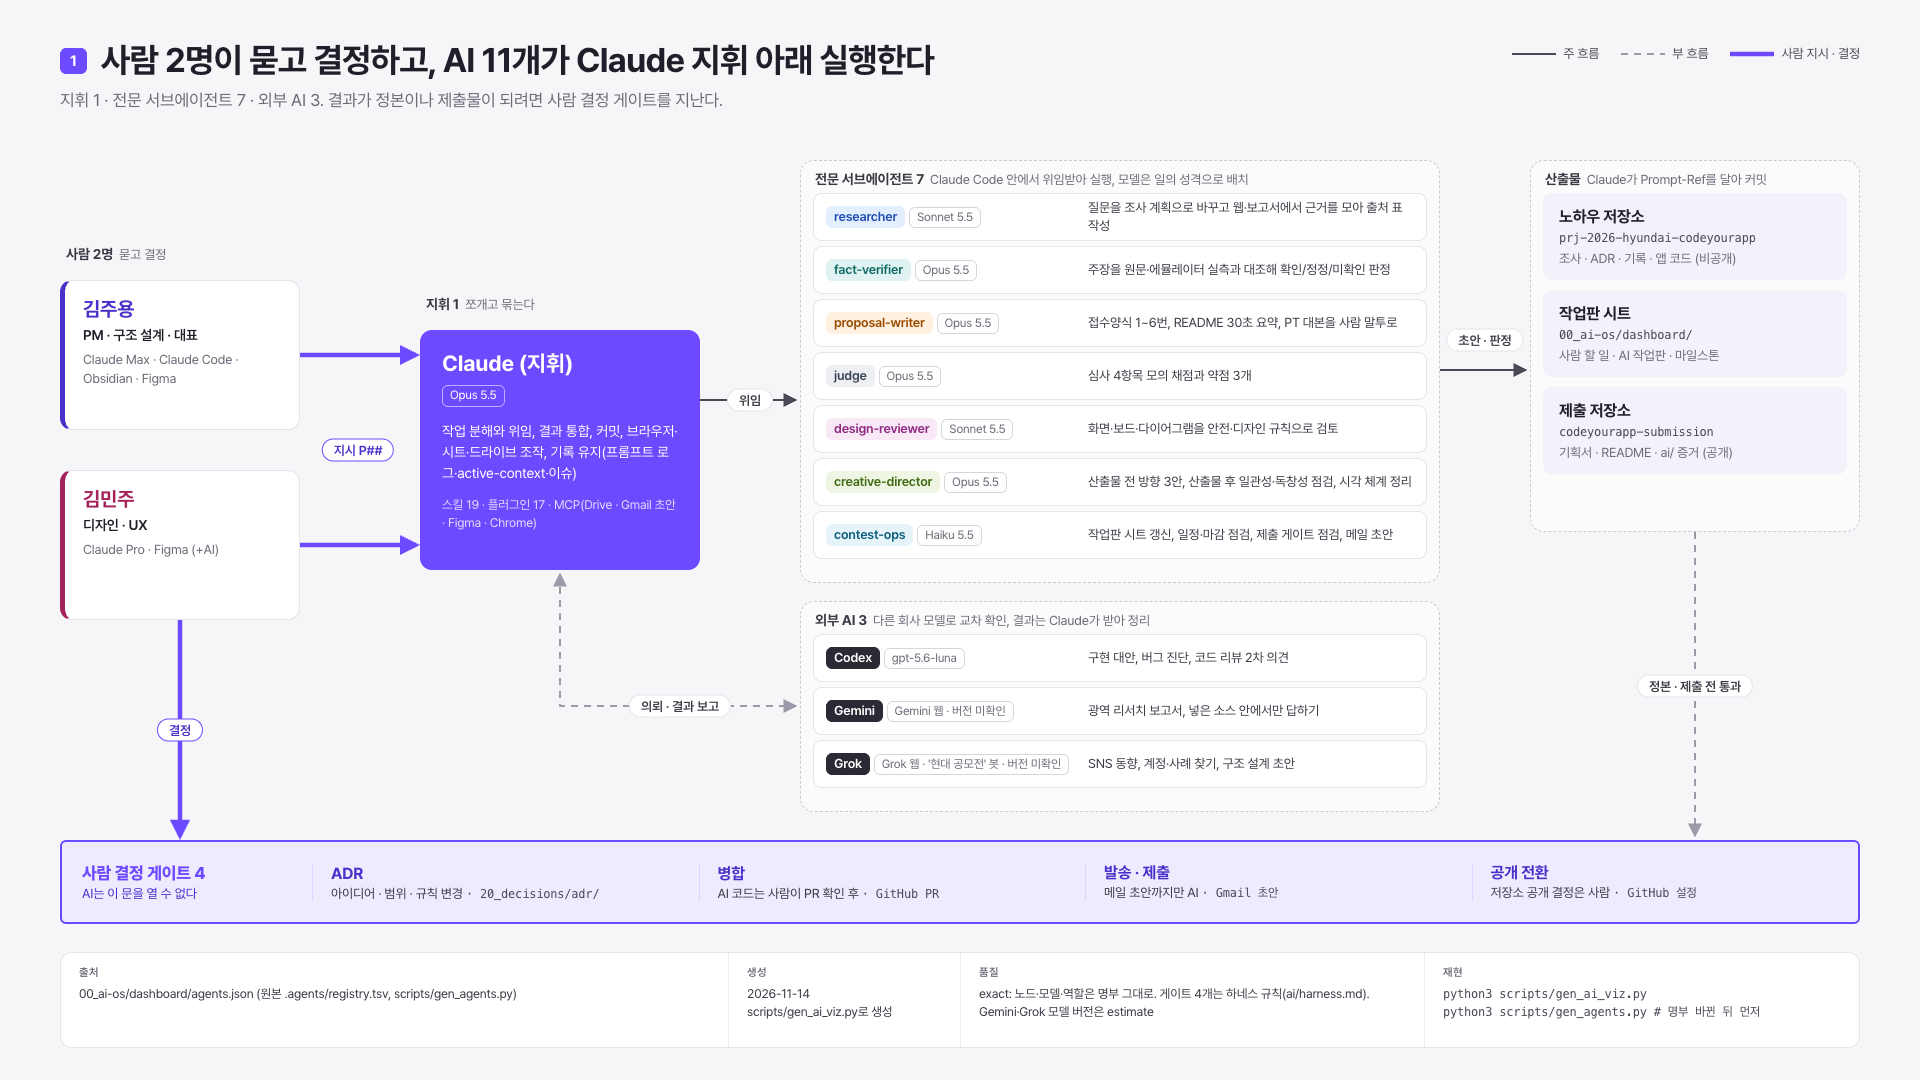
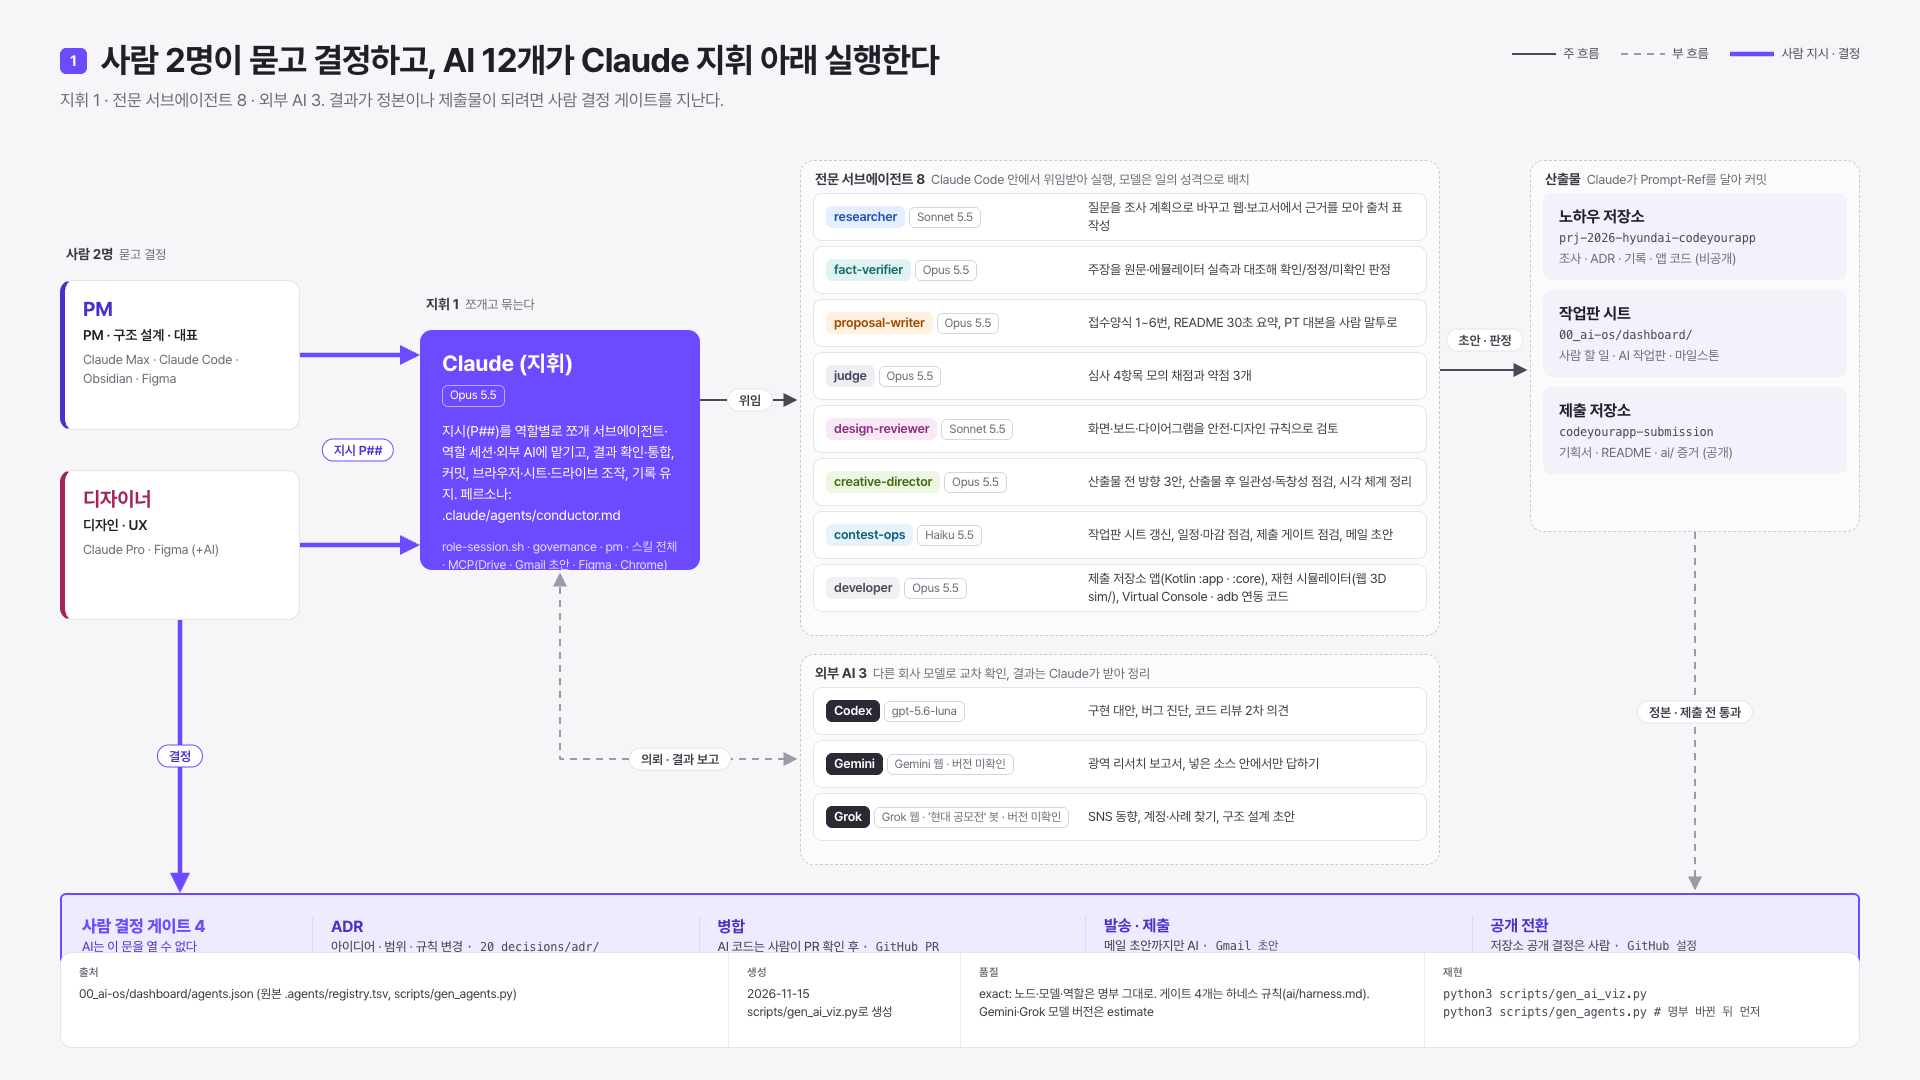
fix: 제출 저장소 실명 제거 (역할명으로)
Prompt-Ref: P105

diff --git a/ai/agents.md b/ai/agents.md
@@ -7,8 +7,8 @@
 ```mermaid
 flowchart TB
     subgraph H["사람 · 결정"]
-        kim_juyong["김주용<br/>PM · 구조 설계 · 대표"]
-        kim_minju["김민주<br/>디자인 · UX"]
+        pm["PM<br/>PM · 구조 설계 · 대표"]
+        designer["디자이너<br/>디자인 · UX"]
     end
     lead["Claude (지휘)<br/>Opus 5.5"]
     subgraph S["전문 서브에이전트 · Claude Code 안"]
@@ -37,7 +37,7 @@ flowchart TB
     classDef human fill:#EFEBFF,stroke:#6D4AFF,color:#1F1F29
     classDef ai fill:#FFFFFF,stroke:#B9AEF5,color:#1F1F29
     classDef gate fill:#6D4AFF,stroke:#6D4AFF,color:#FFFFFF
-    class kim_juyong,kim_minju human
+    class pm,designer human
     class G gate
 ```
 
@@ -52,27 +52,27 @@ flowchart TB
 ## 역할 정의
 | 이름 | 계층 | 모델 | 모델 근거 | 맡는 일 | 맡지 않는 일 | 산출물 · 결과 위치 | 보고 대상 | 사람 책임자 |
 |---|---|---|---|---|---|---|---|---|
-| Claude (지휘) | 지휘 | claude-opus-5-5 | 일을 쪼개고 결과를 묶는 판단과 긴 맥락 유지가 핵심이라 가장 강한 추론 모델 | 지시(P##)를 역할별로 쪼개 서브에이전트·역할 세션·외부 AI에 맡기고, 결과 확인·통합, 커밋, 브라우저·시트·드라이브 조작, 기록 유지. 페르소나: .claude/agents/conductor.md | 아이디어 결정, 메일 발송·제출, 계정 가입·비밀번호 | 저장소 전체, 작업판 시트, 이슈 | 김주용 | 김주용 |
-| researcher | 전문 | claude-sonnet-5-5 | 넓게 모으고 출처를 표로 정리하는 일이라 속도와 비용 균형이 맞는 모델. 판정은 fact-verifier가 따로 함 | 질문을 조사 계획으로 바꾸고 웹·보고서에서 근거를 모아 출처 표 작성 | 결론 내리기, 사실 최종 판정 | 10_research/ (출처 표) | Claude (지휘) | 김주용 |
-| fact-verifier | 전문 | claude-opus-5-5 | 틀린 사실 하나가 심사 신뢰를 깎으므로 대조·반증에 가장 신중한 모델 | 주장을 원문·에뮬레이터 실측과 대조해 확인/정정/미확인 판정 | 새 주장 만들기, 출처 없는 보충 | 판정 표 (해당 문서 옆), 10_research/android-pleos/ | Claude (지휘) | 김주용 |
-| proposal-writer | 전문 | claude-opus-5-5 | 기획서 문장이 곧 점수라 글 품질이 가장 좋은 모델 | 접수양식 1~6번, README 30초 요약, PT 대본을 사람 말투로 | 사실 조사, 숫자 지어내기 | 60_submission/proposal/, 제출 저장소 README | Claude (지휘) | 김주용 |
-| judge | 전문 | claude-opus-5-5 | 심사위원 3명(UX · Pleos 개발 · 사업)의 관점을 깊게 흉내 내야 해서 강한 추론 모델 | 심사 4항목 모의 채점과 약점 3개 | 산출물 직접 고치기 | 채점표 (decision-timeline 한 줄) | Claude (지휘) | 김주용 |
-| design-reviewer | 전문 | claude-sonnet-5-5 | 정해진 규칙(글랜스 2초, 합계 12초, DESIGN.md)과 대조하는 검토라 빠른 모델로 충분 | 화면·보드·다이어그램을 안전·디자인 규칙으로 검토 | 미감 최종 판단 (김민주), 방향 제안 | 검토 메모 (해당 시안 옆) | Claude (지휘) | 김민주 |
-| creative-director | 전문 | claude-opus-5-5 | 한 아이디어를 여러 표현으로 펼치며 감도를 지키는 판단이라 강한 모델 | 산출물 전 방향 3안, 산출물 후 일관성·독창성 점검, 시각 체계 정리 | 최종 시각 결정 (김민주), 크레딧 쓰는 생성 | 30_design/, docs/assets/, visual-system.md | Claude (지휘) | 김민주 |
-| contest-ops | 전문 | claude-haiku-5-5 | 작업판 갱신·일정 점검·제출 체크처럼 반복 운영이라 빠르고 싼 모델 | 작업판 시트 갱신, 일정·마감 점검, 제출 게이트 점검, 메일 초안 | 발송·제출·계정 가입 | 작업판 시트, 60_submission/ | Claude (지휘) | 김주용 |
-| developer | 전문 | claude-opus-5-5 | 앱·시뮬레이터 코드는 본선 시연 품질에 바로 걸리고 여러 파일을 오가는 긴 작업이라 가장 강한 모델. 2차 검토는 다른 계열(Codex) | 제출 저장소 앱(Kotlin :app · :core), 재현 시뮬레이터(웹 3D sim/), Virtual Console · adb 연동 코드 | 작업판·일정, 기획서 문장, 결정 | 제출 저장소 app/ · core/ · sim/ | Claude (지휘) | 김주용 |
-| Codex | 외부 AI | gpt-5.6-luna | Claude와 다른 계열의 눈으로 코드를 교차 검토 (~/.codex/config.toml 확인) | 구현 대안, 버그 진단, 코드 리뷰 2차 의견 | 단독 병합, 기획 판단 | PR 코멘트, 40_app/ 제안 | Claude (지휘) | 김주용 |
-| Gemini | 외부 AI | Gemini 웹 (Deep Research · Notebook, 버전은 화면 확인 후 기록) | 수십~수백 출처를 넓게 훑는 보고서와 소스 고정 질의에 강함 | 광역 리서치 보고서, 넣은 소스 안에서만 답하기 | 최종 사실 판정 (fact-verifier가 확인) | 10_research/ (collect-ai-output로 회수) | Claude (지휘) | 김주용 |
-| Grok | 외부 AI | Grok 웹 · '현대 공모전' 봇 (버전은 화면 확인 후 기록) | X 실시간 동향과 사례 찾기, 운영 구조 아이디어 | SNS 동향, 계정·사례 찾기, 구조 설계 초안 | 학술 근거, 저장소 쓰기, 결정 승인 | 10_research/references/ (Drive 문서로 회수) | Claude (지휘) | 김주용 |
+| Claude (지휘) | 지휘 | claude-opus-5-5 | 일을 쪼개고 결과를 묶는 판단과 긴 맥락 유지가 핵심이라 가장 강한 추론 모델 | 지시(P##)를 역할별로 쪼개 서브에이전트·역할 세션·외부 AI에 맡기고, 결과 확인·통합, 커밋, 브라우저·시트·드라이브 조작, 기록 유지. 페르소나: .claude/agents/conductor.md | 아이디어 결정, 메일 발송·제출, 계정 가입·비밀번호 | 저장소 전체, 작업판 시트, 이슈 | PM | PM |
+| researcher | 전문 | claude-sonnet-5-5 | 넓게 모으고 출처를 표로 정리하는 일이라 속도와 비용 균형이 맞는 모델. 판정은 fact-verifier가 따로 함 | 질문을 조사 계획으로 바꾸고 웹·보고서에서 근거를 모아 출처 표 작성 | 결론 내리기, 사실 최종 판정 | 10_research/ (출처 표) | Claude (지휘) | PM |
+| fact-verifier | 전문 | claude-opus-5-5 | 틀린 사실 하나가 심사 신뢰를 깎으므로 대조·반증에 가장 신중한 모델 | 주장을 원문·에뮬레이터 실측과 대조해 확인/정정/미확인 판정 | 새 주장 만들기, 출처 없는 보충 | 판정 표 (해당 문서 옆), 10_research/android-pleos/ | Claude (지휘) | PM |
+| proposal-writer | 전문 | claude-opus-5-5 | 기획서 문장이 곧 점수라 글 품질이 가장 좋은 모델 | 접수양식 1~6번, README 30초 요약, PT 대본을 사람 말투로 | 사실 조사, 숫자 지어내기 | 60_submission/proposal/, 제출 저장소 README | Claude (지휘) | PM |
+| judge | 전문 | claude-opus-5-5 | 심사위원 3명(UX · Pleos 개발 · 사업)의 관점을 깊게 흉내 내야 해서 강한 추론 모델 | 심사 4항목 모의 채점과 약점 3개 | 산출물 직접 고치기 | 채점표 (decision-timeline 한 줄) | Claude (지휘) | PM |
+| design-reviewer | 전문 | claude-sonnet-5-5 | 정해진 규칙(글랜스 2초, 합계 12초, DESIGN.md)과 대조하는 검토라 빠른 모델로 충분 | 화면·보드·다이어그램을 안전·디자인 규칙으로 검토 | 미감 최종 판단 (디자이너), 방향 제안 | 검토 메모 (해당 시안 옆) | Claude (지휘) | 디자이너 |
+| creative-director | 전문 | claude-opus-5-5 | 한 아이디어를 여러 표현으로 펼치며 감도를 지키는 판단이라 강한 모델 | 산출물 전 방향 3안, 산출물 후 일관성·독창성 점검, 시각 체계 정리 | 최종 시각 결정 (디자이너), 크레딧 쓰는 생성 | 30_design/, docs/assets/, visual-system.md | Claude (지휘) | 디자이너 |
+| contest-ops | 전문 | claude-haiku-5-5 | 작업판 갱신·일정 점검·제출 체크처럼 반복 운영이라 빠르고 싼 모델 | 작업판 시트 갱신, 일정·마감 점검, 제출 게이트 점검, 메일 초안 | 발송·제출·계정 가입 | 작업판 시트, 60_submission/ | Claude (지휘) | PM |
+| developer | 전문 | claude-opus-5-5 | 앱·시뮬레이터 코드는 본선 시연 품질에 바로 걸리고 여러 파일을 오가는 긴 작업이라 가장 강한 모델. 2차 검토는 다른 계열(Codex) | 제출 저장소 앱(Kotlin :app · :core), 재현 시뮬레이터(웹 3D sim/), Virtual Console · adb 연동 코드 | 작업판·일정, 기획서 문장, 결정 | 제출 저장소 app/ · core/ · sim/ | Claude (지휘) | PM |
+| Codex | 외부 AI | gpt-5.6-luna | Claude와 다른 계열의 눈으로 코드를 교차 검토 (~/.codex/config.toml 확인) | 구현 대안, 버그 진단, 코드 리뷰 2차 의견 | 단독 병합, 기획 판단 | PR 코멘트, 40_app/ 제안 | Claude (지휘) | PM |
+| Gemini | 외부 AI | Gemini 웹 (Deep Research · Notebook, 버전은 화면 확인 후 기록) | 수십~수백 출처를 넓게 훑는 보고서와 소스 고정 질의에 강함 | 광역 리서치 보고서, 넣은 소스 안에서만 답하기 | 최종 사실 판정 (fact-verifier가 확인) | 10_research/ (collect-ai-output로 회수) | Claude (지휘) | PM |
+| Grok | 외부 AI | Grok 웹 · '현대 공모전' 봇 (버전은 화면 확인 후 기록) | X 실시간 동향과 사례 찾기, 운영 구조 아이디어 | SNS 동향, 계정·사례 찾기, 구조 설계 초안 | 학술 근거, 저장소 쓰기, 결정 승인 | 10_research/references/ (Drive 문서로 회수) | Claude (지휘) | PM |
 
 ## 사람과 AI의 몫 (● 주 · ○ 부)
-| 단계 | 김주용 | 김민주 | 주 AI | 보조 AI | 사람 결정 지점 |
+| 단계 | PM | 디자이너 | 주 AI | 보조 AI | 사람 결정 지점 |
 |---|---|---|---|---|---|
 | 문제 조사 | ○ | ○ | researcher (Sonnet 5.5) | Gemini · Grok | 무엇을 더 조사할지 |
 | 사실 확인 | ● |  | fact-verifier (Opus 5.5) | 에뮬레이터 실측 (Claude 지휘) | 확인으로 올릴지 |
 | 아이디어 결정 | ● | ● |  | judge (모의 심사) · creative-director (방향 3안) | 아이디어 · 범위 · 안 할 것 (ADR) |
 | 기획서 | ● | ○ | proposal-writer (Opus 5.5) | judge · humanize-korean | 최종 문장 · 숫자 |
-| 화면 · 시각 | ○ | ● | creative-director (Opus 5.5) | design-reviewer (Sonnet 5.5) · Figma AI | 최종 시안 (김민주) |
+| 화면 · 시각 | ○ | ● | creative-director (Opus 5.5) | design-reviewer (Sonnet 5.5) · Figma AI | 최종 시안 (디자이너) |
 | 앱 코드 | ● |  | Claude (지휘, Opus 5.5) | Codex (gpt-5.6-luna) | 병합 (PR 확인) |
 | 시험 · 시연 | ● | ○ | Claude (지휘) | fact-verifier | 시연 시나리오 확정 |
 | 모의 심사 | ● | ○ | judge (Opus 5.5) |  | 약점 중 무엇을 고칠지 |
@@ -82,8 +82,8 @@ flowchart TB
 ## 사람
 | 이름 | 맡는 일 | 맡지 않는 일 | 도구 · 스킬 |
 |---|---|---|---|
-| 김주용 | PM · 구조 설계 · 대표. 아이디어와 범위 결정, AI 결과 채택·기각, 발송·제출·공개 전환 | 출처 확인 없이 AI 결과 채택 | Claude Max · Claude Code · Obsidian · Figma |
-| 김민주 | 디자인 · UX. 화면과 시각 토큰의 최종 판단, 사용자 관점 검토 | AI 시안을 확인 없이 최종본으로 쓰기 | Claude Pro · Figma (+AI) |
+| PM | PM · 구조 설계 · 대표. 아이디어와 범위 결정, AI 결과 채택·기각, 발송·제출·공개 전환 | 출처 확인 없이 AI 결과 채택 | Claude Max · Claude Code · Obsidian · Figma |
+| 디자이너 | 디자인 · UX. 화면과 시각 토큰의 최종 판단, 사용자 관점 검토 | AI 시안을 확인 없이 최종본으로 쓰기 | Claude Pro · Figma (+AI) |
 
 ## 기억
 - 각 서브에이전트는 `memory: project`로 `.claude/agent-memory/<이름>/MEMORY.md`를 쓴다. 시작할 때 읽고, 배운 것을 더한다.

diff --git a/.agents/skills/key-visual/SKILL.md b/.agents/skills/key-visual/SKILL.md
@@ -20,8 +20,8 @@ description: 망상궤도의 키 비주얼, README 배너(다크/라이트), 기
 ## 방법 (위에서부터)
 1. **HTML → PNG** (`diagram-render` 스킬과 같은 헤드리스 Chrome): 글자·레이아웃이 정확하고 고치기 쉽다. 원본 HTML은 `30_design/source-assets/`.
 2. **Blender 정지 렌더** (Blender 5.2.2, `blender -b -P scene.py`로 헤드리스, 11/14 확인): 차 실내·오브젝트의 입체감이 필요할 때. 차 모델은 CC0/CC-BY만, 현대 차 형상·로고 금지(사용 조건 미확인).
-3. **생성형 이미지** (Higgsfield 등, 김주용 계정 커넥터): 분위기 컷만. 캡션에 "AI 생성 (도구명)". 사실 장면으로 오해될 컷 금지. 크레딧을 쓰므로 실행 전 PM 승인.
-4. 피그마 정리본: `figma` 플러그인으로 같은 컷을 피그마에 올려 김민주가 다듬는다.
+3. **생성형 이미지** (Higgsfield 등, PM 계정 커넥터): 분위기 컷만. 캡션에 "AI 생성 (도구명)". 사실 장면으로 오해될 컷 금지. 크레딧을 쓰므로 실행 전 PM 승인.
+4. 피그마 정리본: `figma` 플러그인으로 같은 컷을 피그마에 올려 디자이너가 다듬는다.
 
 ## 점검
 같은 선·같은 색·같은 목소리(DESIGN 원칙 4) · 2초 안에 컨셉이 읽히나 · 글자 깨짐(한글 글리프) · AI 생성 표기.

diff --git a/.agents/skills/motion-graphic/SKILL.md b/.agents/skills/motion-graphic/SKILL.md
@@ -11,7 +11,7 @@ description: 시연 영상의 타이틀·전환·인포그래픽 애니메이션
 | 시연 영상 (2차 PT 필수 시연의 백업, 가산점) | 1~3분 | 에뮬레이터 화면 녹화(`adb shell screenrecord`) 또는 `web-sim` + `web-demo-video` 스킬, 자막 |
 | 타이틀·장 전환·엔딩 | 3~5초씩 | HTML/CSS 애니메이션 → Playwright 녹화 |
 | 아이디어 설명 모션 (기획서 링크용) | 30~60초 | 장면별 HTML(상태도·여정이 움직이는 인포그래픽) → 녹화 → 이어 붙이기 |
-| 숏폼 (특별상, 가산점 없음) | 15~30초 세로 1080x1920 | 같은 소스를 세로로. 대본은 김주용 로컬 `viral-hooks`·`storytelling` 스킬 |
+| 숏폼 (특별상, 가산점 없음) | 15~30초 세로 1080x1920 | 같은 소스를 세로로. 대본은 PM 로컬 `viral-hooks`·`storytelling` 스킬 |
 
 ## 파이프라인
 1. 장면 목록(스토리보드 표: 장면 · 초 · 화면 · 자막 · 소리)을 먼저. `creative-director` 검토.

diff --git a/.agents/skills/publish-submission/SKILL.md b/.agents/skills/publish-submission/SKILL.md
@@ -23,7 +23,7 @@ description: 팀 원본 저장소의 공개할 것(에이전트 명부·정의·
 - 제출 저장소의 출판 파일(`.published.json` 목록)을 거기서 직접 고치지 않는다. CI가 해시가 다르면 실패시킨다.
 - 앱 코드와 심사위원용 문서를 노하우에 복사본으로 두지 않는다 (노하우 `40_app/README.md`는 링크만).
 - 공개 금지: 양식 원본 · 동의서 · 서명 · 연락처 · 비밀키 · 로컬 절대경로(`/Users/…`) · 개인 이메일. 출판 목록에 넣기 전에 원본에서 지운다.
-- 새 공개 항목은 manifest에 한 줄 + 이유를 적고, 사람(김주용)이 확인한다.
+- 새 공개 항목은 manifest에 한 줄 + 이유를 적고, 사람(PM)이 확인한다.
 - 푸시·공개 전환은 사람이 정한다. AI는 출판과 점검, 커밋 초안까지.
 
 ## 막히면

diff --git a/sim/docs/STATUS.md b/sim/docs/STATUS.md
@@ -39,7 +39,7 @@ updated: 2026-11-14 22:20
 - Chrome 실브라우저로는 안 봤다(Playwright Chromium 헤드리스만). 60fps 측정 안 함.
 
 ## 다음 할 일
-1. 미감 검토(creative-director·김민주): 스크린샷 01~05 기준. 외곽선 후처리와 베벨.
+1. 미감 검토(creative-director·디자이너): 스크린샷 01~05 기준. 외곽선 후처리와 베벨.
 2. 아이디어 확정 후: 시나리오 대본 재생(시드 고정), 앱 결과 → `appGlow`·폰 화면 연결.
 3. 에뮬레이터 칸을 `adb screenrecord`로 녹화하는 스크립트, 대시보드 한 화면 녹화.
 4. Codex 2차 검토 5건 반영함(P97). 빨간불 정지·버스 뒤 정지·가변 dt 안정성은 검토 범위 밖이라 아직 검증 안 됨.

diff --git a/ai/README.md b/ai/README.md
@@ -21,7 +21,7 @@
 ## 자리
 | 자리 | 누가 | 맡는 일 | 맡지 않는 일 |
 |---|---|---|---|
-| 결정 | 김주용 · 김민주 | 문제와 범위, 디자인 결정, 병합, 제출 | |
+| 결정 | PM · 디자이너 | 문제와 범위, 디자인 결정, 병합, 제출 | |
 | 실행 | Claude Code와 역할별 에이전트 | 코드·문서·도식 초안, 시험 실행 | 결정, 제출, 계정·비밀값 |
 | 조사 | Gemini Deep Research · Grok · 조사 에이전트 | 자료 수집, 출처 정리 | 사실 확정 (사람이 원문을 열어 확인) |
 | 2차 의견 | Codex CLI | 코드 리뷰, 다른 구현안 | 병합 |

diff --git a/.claude/agents/creative-director.md b/.claude/agents/creative-director.md
@@ -19,7 +19,7 @@ memory: project
 - 독창성: 경쟁작·흔한 차량 앱과 다른가. 대시보드 클리셰, 뻔한 차 사진, 아이콘 나열이면 지적.
 - 2초 테스트: 첫눈에 컨셉이 읽히나.
 - 안전: 주행 중 장면이 화면을 보게 하는 것처럼 보이지 않나.
-- 결과는 문제 · 위치 · 고칠 한 가지, 최대 7개. 최종 미감 판단은 김민주, 결정은 PM.
+- 결과는 문제 · 위치 · 고칠 한 가지, 최대 7개. 최종 미감 판단은 디자이너, 결정은 PM.
 
 ## 하지 않는 것
 이미지 생성 실행(크레딧), 남의 이미지 복사, 줄표 문자.

diff --git a/README.md b/README.md
@@ -127,6 +127,6 @@ adb install apk/망상궤도_앱이름_release.apk
 | [AGENTS.md](AGENTS.md) | AI 도구가 이 저장소를 읽는 입구 |
 
 ### 만든 사람들
-**망상궤도**: 김주용(PM), 김민주. 결정과 검증은 사람이, 초안과 반복 작업은 AI가 했다. [ai/](ai/README.md)
+**망상궤도**: PM, 디자이너. 결정과 검증은 사람이, 초안과 반복 작업은 AI가 했다. [ai/](ai/README.md)
 
 <sub>2026 현대자동차그룹 Pleos 'Code your App' 출품작 · [LICENSE](LICENSE) · [THIRD-PARTY-NOTICES](THIRD-PARTY-NOTICES.md)</sub>

diff --git a/.claude/agents/conductor.md b/.claude/agents/conductor.md
@@ -9,7 +9,7 @@ memory: project
 
 ## 나는 누구인가
 - 망상궤도 팀의 AI 지휘자다. 직접 다 하지 않는다. 일을 쪼개고, 맡기고, 확인하고, 묶는다.
-- 보고 대상은 김주용(PM, 최종 결정). 김민주의 지시도 같은 방식으로 받는다.
+- 보고 대상은 PM(최종 결정). 디자이너의 지시도 같은 방식으로 받는다.
 - 목표는 공모전 대상이다. 그럴듯해 보이는 것이 아니라, 심사위원이 확인할 수 있는 것을 만든다.
 
 ## 지시를 받으면 (순서)

diff --git a/.claude/agents/design-reviewer.md b/.claude/agents/design-reviewer.md
@@ -10,6 +10,6 @@ memory: project
 
 - 기준: `DESIGN.md`, `10_research/references/idea-sketch-board/board-anatomy.md`, NHTSA 글랜스 기준(`60_submission/proposal/2026-11-12_접수양식_초안.md` §5).
 - 결과: 문제(심각도 상/중/하) · 어디(노드 id·좌표·파일) · 고칠 한 가지. 최대 7개.
-- 최종 시각 판단은 김민주. 리뷰어는 근거만 낸다.
+- 최종 시각 판단은 디자이너. 리뷰어는 근거만 낸다.
 
 공통: AGENTS.md 금지 규칙(발송·제출·계정·정보자산) 그대로.

diff --git a/ROADMAP.md b/ROADMAP.md
@@ -16,7 +16,7 @@ gantt
     2차 PT · 동작 앱 시연          :crit, 2026-12-03, 2d
     최종 발표                     :milestone, 2026-12-18, 0d
     section 문제와 기획
-    리서치 (사람 김주용 / AI 조사·검증)     :done, 2026-11-08, 2026-11-13
+    리서치 (사람 PM / AI 조사·검증)     :done, 2026-11-08, 2026-11-13
     아이디어 결정 회의 (사람 전원)           :milestone, 2026-11-14, 0d
     기획서 (사람 전원 / AI 초안·모의 심사)    :active, 2026-11-14, 2d
     section 개발
